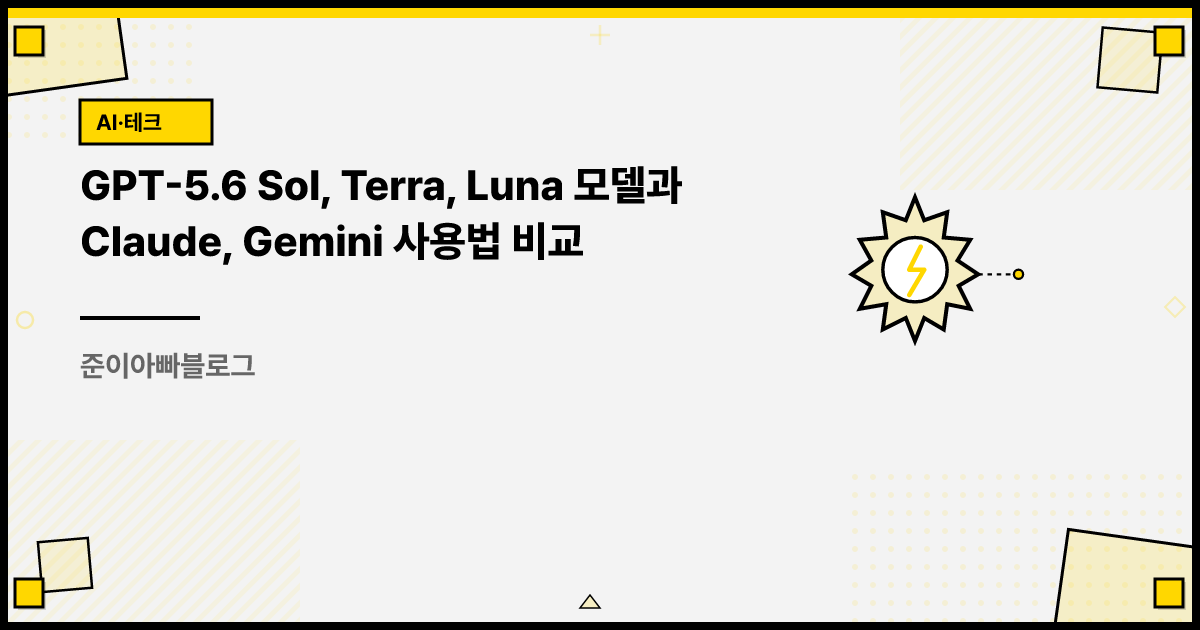
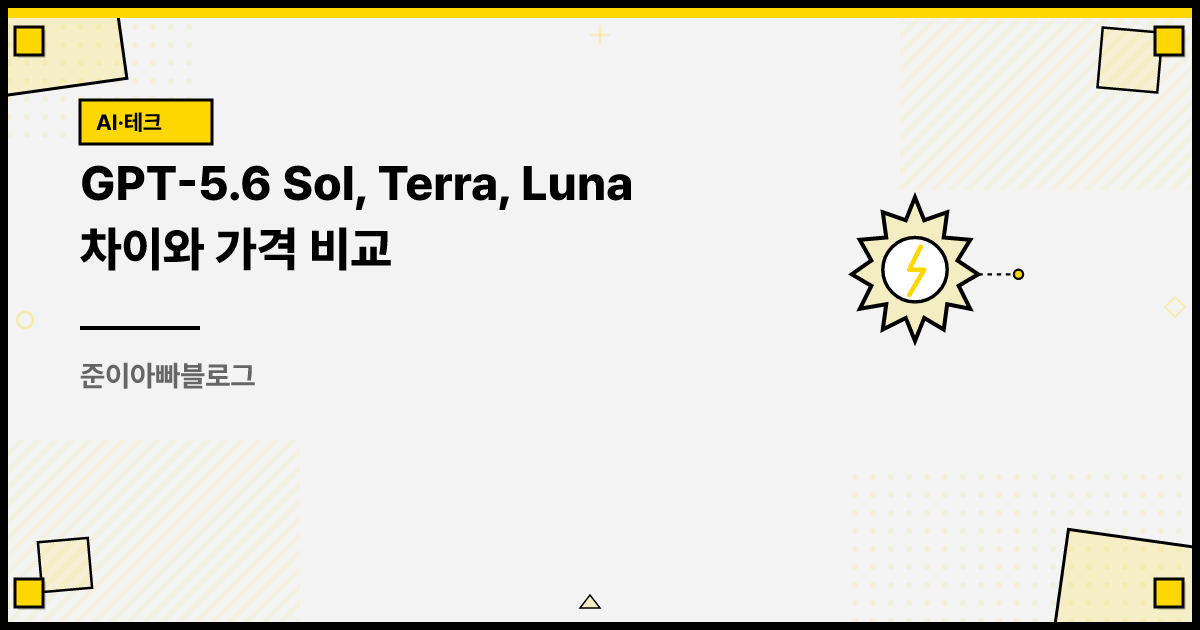
docs(insights): GPT-5.6 Sol 한시 인하 반영과 Sonnet 5 가격 오류 수정
- comparison 글에 "GPT-5.6 가격 변동 이력과 Sol 한시 인하" 섹션 추가
  (변동 이력 표, 캐시 단가, 고속 모드/장기 컨텍스트/배치·플렉스 파생 단가,
   종량제와 구독 포함분의 적용 범위 구분)
- 본문 가격표를 현행가(Sol $4/$20)로 교체하고 정가 병기
- 헤딩 4개를 명사형으로 바꾸고 검색 고유명사 삽입, title에 "차이" 반영
- 팩트 오류 수정: Sonnet 5의 9월 인상은 2026-08-10 철회됨 (두 글 4곳)
- 퀴즈 해설과 3줄 요약의 단가 배수를 인하 후 기준(20배)으로 갱신
- Sources의 OpenAI 가격 페이지를 developers.openai.com으로 교체
- og:image 재생성, 두 글 updatedAt 갱신

Claude-Session: https://claude.ai/code/session_0157HtXYH98cCaQmMD9xzkNM

Changed region(s): [[0.0617, 0.2413, 0.5858, 0.4222], [0.0617, 0.4825, 0.2158, 0.6333]]

diff --git a/content/insights/gpt-5-6-sol-terra-luna-comparison.md b/content/insights/gpt-5-6-sol-terra-luna-comparison.md
@@ -1,25 +1,26 @@
 ---
 slug: gpt-5-6-sol-terra-luna-comparison
-title: 'GPT-5.6 Sol, Terra, Luna 모델과 Claude, Gemini 사용법 비교'
+title: 'GPT-5.6 Sol, Terra, Luna 차이와 가격 비교'
 excerpt: >-
   GPT-5.6은 OpenAI가 2026년 7월 출시한 3단계 모델 제품군으로, 최상위 Sol, 균형형 Terra, 경량 Luna로
-  구성됩니다. 세 모델의 차이와 요금제별 사용 범위, Claude와 Gemini 경쟁 모델과의 가격, 벤치마크 비교를 정리했습니다.
+  구성됩니다. 세 모델의 차이와 두 차례 가격 인하 이력, 요금제별 사용 범위, Claude와 Gemini 경쟁 모델과의 가격과 벤치마크
+  비교를 정리했습니다.
 category: AI_TECH
 tags:
   - AI
   - API
   - 자동화
 publishedAt: '2026-07-31T00:00:00.000Z'
-updatedAt: '2026-08-24T00:00:00.000Z'
+updatedAt: '2026-08-25T00:00:00.000Z'
 highlights:
   - '기본값은 Terra로 잡고, 대량 반복 작업은 Luna로, 복잡한 추론과 에이전트 작업만 Sol로 올리는 방식이 비용 효율적입니다.'
-  - 순수 코드 품질이 중요한 작업이라면 벤치마크 지표를 기준으로 Claude 계열과 교차 비교 후 선택하세요.
-metaTitle: 'GPT-5.6 Sol, Terra, Luna 모델과 Claude, Gemini 사용법 비교 (2026년 7월 기준)'
+  - Sol 인하는 2026년 11월 21일까지의 한시 가격이므로 장기 예산은 정가 기준으로 잡아 두세요.
+metaTitle: 'GPT-5.6 Sol, Terra, Luna 차이와 가격 비교 (2026년 8월 기준)'
 metaDescription: >-
   GPT-5.6은 OpenAI의 3단계 모델 제품군으로 최상위 Sol, 균형형 Terra, 경량 Luna로 나뉩니다. 세 모델의 차이,
-  ChatGPT 요금제별 사용 범위, Claude와 Gemini 대비 가격과 벤치마크를 정리했습니다.
-ogTitle: 'GPT-5.6 Sol, Terra, Luna 모델과 Claude, Gemini 사용법 비교'
-ogDescription: 'GPT-5.6 세 모델의 역할 차이와 요금제별 사용 범위, Claude와 Gemini 경쟁 모델과의 가격, 벤치마크 비교를 정리했습니다.'
+  2026년 8월 Sol 가격 인하 내용, ChatGPT 요금제별 사용 범위, Claude와 Gemini 대비 가격과 벤치마크를 정리했습니다.
+ogTitle: 'GPT-5.6 Sol, Terra, Luna 차이와 가격 비교'
+ogDescription: 'GPT-5.6 세 모델의 차이와 두 차례 가격 인하 이력, Claude와 Gemini 경쟁 모델과의 가격, 벤치마크 비교를 정리했습니다.'
 ogImage: /og/gpt-5-6-sol-terra-luna-comparison.png
 quiz:
   - question: GPT-5.6 세 모델 가운데 대량 텍스트 분류나 반복 자동화처럼 호출 횟수가 많은 작업에 가장 적합한 모델은 무엇일까요?
@@ -30,15 +31,15 @@ quiz:
     correctIndex: 0
     explanation: >-
       Luna는 입력 100만 토큰당 0.20달러로 세 모델 중 가장 저렴하고 응답 속도도 가장 빠릅니다. 분류, 추출, 요약처럼
-      단순하지만 호출 횟수가 많은 작업일수록 Luna의 비용 우위가 커집니다. Sol은 성능이 가장 높지만 단가가 25배라 대량 호출에는
-      비효율적입니다.
+      단순하지만 호출 횟수가 많은 작업일수록 Luna의 비용 우위가 커집니다. Sol은 성능이 가장 높지만 입력 단가가 20배라 대량
+      호출에는 비효율적입니다.
 ---
 
 GPT-5.6은 OpenAI가 2026년 7월 9일 정식 출시한 3단계 AI 모델 제품군입니다. 최고 성능의 Sol(솔), 균형형 Terra(테라), 경량 Luna(루나) 세 모델로 구성됩니다. 태양, 지구, 달이라는 이름 그대로 크기와 역할이 층을 이루는 구조입니다.
 
-출시 3주 만인 7월 30일에는 Luna 가격이 80%, Terra 가격이 20% 인하되면서 세 모델의 위치가 한 번 더 정리되었습니다. 인하 내용은 [GPT-5.6 Luna 가격 인하 글](/insights/gpt-5-6-luna-price-cut)에서 따로 다뤘습니다. 이 글에서는 세 모델의 차이, ChatGPT 요금제별 사용 범위, 그리고 Claude와 Gemini의 경쟁 모델과 견줬을 때의 위치를 정리했습니다.
+출시 이후 가격은 두 번 바뀌었습니다. 7월 30일에 Luna가 80%, Terra가 20% 내려갔고, 8월 21일에는 Sol이 입력 20%, 출력 33% 인하됐습니다. 7월 인하의 배경은 [GPT-5.6 Luna 가격 인하 글](/insights/gpt-5-6-luna-price-cut)에서 따로 다뤘습니다. 이 글에서는 세 모델의 차이와 가격 변동 이력, ChatGPT 요금제별 사용 범위, 그리고 Claude와 Gemini의 경쟁 모델과 견줬을 때의 위치를 정리했습니다.
 
-## GPT-5.6 세 모델은 무엇이 다를까요?
+## GPT-5.6 Sol, Terra, Luna 세 모델의 차이
 
 세 모델은 같은 기반에서 크기와 단가를 달리한 형제 모델입니다. 공통 사양부터 확인하면 다음과 같습니다.
 
@@ -46,20 +47,54 @@ GPT-5.6은 OpenAI가 2026년 7월 9일 정식 출시한 3단계 AI 모델 제품
 - **최대 출력**: 12만 8천 토큰입니다.
 - **지식 기준일**: 2026년 2월 16일까지의 정보를 학습했습니다.
 
-성능과 단가에서 차이가 납니다. 2026년 7월 30일 인하가 반영된 정가 기준입니다.
+성능과 단가에서 차이가 납니다. 2026년 8월 25일 기준으로 실제 청구되는 단가입니다.
 
 | 구분 | Sol | Terra | Luna |
 |------|-----|-------|------|
 | 위치 | 최상위 | 균형형 | 경량 |
-| 입력 (100만 토큰당) | $5.00 | $2.00 | $0.20 |
-| 출력 (100만 토큰당) | $30.00 | $12.00 | $1.20 |
+| 입력 (100만 토큰당) | $4.00 | $2.00 | $0.20 |
+| 출력 (100만 토큰당) | $20.00 | $12.00 | $1.20 |
 | 어울리는 일 | 복잡한 추론, 에이전트 작업, 까다로운 코드 수정 | 문서 요약, 초안 작성, 일반 질의응답 | 대량 분류, 데이터 추출, 단순 변환 |
 
-위 표의 Sol 단가는 그 뒤 한 번 더 내려갔습니다. OpenAI는 2026년 8월 21일부터 11월 21일까지 Sol을 입력 100만 토큰당 $4, 출력 $20으로 한시 인하했고, Terra와 Luna 단가는 그대로 뒀습니다.
+표의 Sol 단가는 기간이 정해진 한시 가격입니다. 정가는 입력 $5, 출력 $30이고, 인하가는 최소 2026년 11월 21일까지 적용됩니다. 자세한 내용은 바로 다음 섹션에 정리했습니다.
 
 OpenAI는 Terra가 이전 세대 GPT-5.5와 비슷한 성능을 절반 가격에 낸다고 설명합니다. 실제로 뒤에서 볼 벤치마크에서도 Terra는 GPT-5.5와 같은 점수대에 있습니다. 그래서 실무 기본값은 Terra로 잡고, 단순 반복 작업은 Luna로 내리고, 어려운 작업만 Sol로 올리는 구조가 자연스럽습니다.
 
-## ChatGPT 요금제에서는 어떤 모델이 열릴까요?
+## GPT-5.6 가격 변동 이력과 Sol 한시 인하
+
+출시 이후 두 달 사이에 단가가 두 번 조정됐습니다. 순서대로 정리하면 다음과 같습니다. 모두 100만 토큰당 미국 달러 기준입니다.
+
+| 시점 | 조정 내용 | Sol (입력/출력) | Terra (입력/출력) | Luna (입력/출력) |
+|------|----------|----------------|------------------|-----------------|
+| 2026년 7월 9일 출시 | 최초 가격 | $5 / $30 | $2.50 / $15 | $1 / $6 |
+| 2026년 7월 30일 | Luna 80%, Terra 20% 인하 | $5 / $30 | $2 / $12 | $0.20 / $1.20 |
+| 2026년 8월 21일 | Sol 입력 20%, 출력 33% 인하 | $4 / $20 | $2 / $12 | $0.20 / $1.20 |
+
+> GPT-5.6 Sol의 API 가격은 2026년 8월 21일부터 입력 100만 토큰당 4달러, 출력 100만 토큰당 20달러입니다. 최소 2026년 11월 21일까지 적용되는 한시 가격이며, 같은 날 Terra와 Luna 단가는 바뀌지 않았습니다.
+
+캐시 관련 단가에도 같은 비율의 인하가 적용됐습니다. 시스템 프롬프트가 길어 캐시 적중률이 높은 서비스라면 이 부분이 실제 청구액에 더 크게 반영됩니다.
+
+| 항목 | 인하 전 | 인하 후 |
+|------|--------|--------|
+| 입력 | $5.00 | $4.00 |
+| 출력 | $30.00 | $20.00 |
+| 캐시 적중 입력 | $0.50 | $0.40 |
+| 캐시 쓰기 | $6.25 | $5.00 |
+
+요청을 보내는 방식에 따라 붙는 파생 단가에도 인하가 반영됐습니다. 모두 인하 후 Sol 기준입니다.
+
+- **고속 모드(Fast mode)**: 표준 단가의 2배입니다. 입력 $8, 출력 $40이 됩니다. 응답 속도가 병목인 기능에 쓰는 옵션입니다.
+- **장기 컨텍스트**: 입력이 27만 2천 토큰을 넘으면 별도 단가가 적용됩니다. 입력 $8, 출력 $30입니다.
+- **배치, 플렉스 처리**: 표준 단가의 절반입니다. 입력 $2, 출력 $10으로 내려갑니다. 응답이 몇 시간 늦어도 되는 대량 작업이라면 가장 저렴한 선택입니다.
+
+인하가 적용되는 범위도 확인해 둘 필요가 있습니다. 쓴 만큼 청구되는 사용량에는 적용되고, 구독료에 이미 포함된 사용량에는 해당하지 않습니다.
+
+- **적용됩니다**: 종량제 API, ChatGPT Work와 Codex에서 따로 구매하는 크레딧, Business와 Edu, Enterprise 워크스페이스의 유연 요금제
+- **적용되지 않습니다**: Plus, Pro, Business 구독에 기본으로 포함된 사용량. 이 부분은 인하 전과 같습니다.
+
+정리하면 API로 직접 호출하거나 크레딧을 사서 쓰는 쪽은 청구액이 내려가고, 월 구독료만 내고 포함된 만큼만 쓰는 쪽은 달라지는 것이 없습니다.
+
+## ChatGPT 요금제별 GPT-5.6 사용 범위
 
 API가 아니라 ChatGPT 앱에서 쓰는 경우, 요금제에 따라 접근 범위가 달라집니다. 한 가지 특이한 점은 채팅 화면에 Sol, Terra, Luna를 직접 고르는 메뉴가 없다는 것입니다. 모델 선택기에서 추론 수준을 고르면 그에 맞는 모델이 배정되는 방식으로 알려져 있습니다.
 
@@ -69,7 +104,7 @@ API가 아니라 ChatGPT 앱에서 쓰는 경우, 요금제에 따라 접근 범
 
 요금제별 세부 기준은 자주 바뀌므로, 결제 전에는 OpenAI 공식 도움말에서 현재 기준을 확인하는 편이 안전합니다.
 
-## Claude, Gemini와 비교하면 어느 쪽이 유리할까요?
+## GPT-5.6과 Claude, Gemini 성능 및 가격 비교
 
 모델 비교에는 독립 벤치마크 기관 Artificial Analysis의 집계를 기준으로 사용했습니다. 아래 차트는 여러 시험을 종합한 지능 지수(Intelligence Index)와, 코딩 도구에 물려 실제 개발 작업을 시킨 코딩 에이전트 지수(Coding Agent Index)입니다.
 
@@ -83,21 +118,21 @@ API가 아니라 ChatGPT 앱에서 쓰는 경우, 요금제에 따라 접근 범
 
 다만 순수 코드 생성 품질을 보는 SWE-bench Pro에서는 Claude Fable 5가 80%로 Sol의 64.6%를 크게 앞선다는 집계도 있습니다. 저장소 수준의 코드 품질이 중요한 작업과, 터미널에서 여러 단계를 수행하는 에이전트형 작업의 승자가 서로 다른 셈입니다.
 
-가격 축에서 각 체급의 경쟁 모델과 나란히 놓으면 다음과 같습니다. 2026년 7월 기준 입력/출력 가격입니다.
+가격 축에서 각 체급의 경쟁 모델과 나란히 놓으면 다음과 같습니다. 2026년 8월 25일 기준 입력/출력 가격입니다.
 
 | 체급 | GPT-5.6 | Claude | Gemini |
 |------|---------|--------|--------|
-| 최상위 | Sol $5 / $30 | Opus 5 $5 / $25, Fable 5 $10 / $50 | Gemini 3.1 Pro $2 / $12 |
-| 중간 | Terra $2 / $12 | Sonnet 5 $2 / $10 (9월부터 $3 / $15) | Gemini 3.1 Pro $2 / $12 |
+| 최상위 | Sol $4 / $20 (정가 $5 / $30) | Opus 5 $5 / $25, Fable 5 $10 / $50 | Gemini 3.1 Pro $2 / $12 |
+| 중간 | Terra $2 / $12 | Sonnet 5 $2 / $10 | Gemini 3.1 Pro $2 / $12 |
 | 경량 | Luna $0.20 / $1.20 | Haiku 4.5 $1 / $5 | Gemini 3.6 Flash $1.50 / $7.50 |
 
 체급별로 구도가 다릅니다.
 
-- **최상위 구간**: Sol은 Opus 5와 입력 가격이 같고 출력은 조금 더 비쌉니다. 이 구간은 가격보다 작업 유형이 선택 기준입니다. 지표상 에이전트형 작업은 Sol, 순수 코드 품질은 Claude 계열이 앞서는 구도입니다.
-- **중간 구간**: Terra와 Sonnet 5, Gemini 3.1 Pro가 모두 입력 2달러 안팎에 몰려 있어 가장 치열한 구간입니다. Sonnet 5의 프로모션 가격이 8월 말 종료되면 Terra의 가격 우위가 커집니다.
+- **최상위 구간**: 한시 인하가 적용되는 동안에는 Sol이 입력과 출력 모두 Opus 5보다 저렴합니다. 정가 기준으로는 입력이 같고 출력이 더 비쌌으니, 이번 인하로 두 모델의 가격 순서가 뒤집혔습니다. 다만 11월에 정가로 돌아가면 원래대로 복귀합니다. 그래서 이 구간의 선택 기준은 가격보다 작업 유형에 두는 편이 안전합니다. 지표상 에이전트형 작업은 Sol, 순수 코드 품질은 Claude 계열이 앞섭니다.
+- **중간 구간**: Terra와 Sonnet 5, Gemini 3.1 Pro가 모두 입력 2달러 안팎에 몰려 있어 가장 치열한 구간입니다. Sonnet 5는 9월부터 $3 / $15로 오를 예정이었으나, Anthropic이 2026년 8월 10일 인상을 철회하고 $2 / $10을 표준 가격으로 확정했습니다([관련 글](/insights/claude-sonnet-5-price-permanent)). 이 구간의 가격 구도는 당분간 지금 상태로 유지됩니다.
 - **경량 구간**: Luna가 Haiku 4.5의 5분의 1, Gemini 3.6 Flash의 7분의 1 수준 입력 가격으로 가장 저렴합니다. 다만 Haiku 4.5는 컨텍스트 윈도가 20만 토큰으로 작고, Gemini 3.6 Flash는 이미지, 영상, 음성 입력을 함께 처리하는 멀티모달이 강점이라 단순 가격만으로 비교하기 어려운 면이 있습니다.
 
-## 어떤 기준으로 선택하면 될까요?
+## 작업 유형별 GPT-5.6 모델 선택 기준
 
 기준을 작업 유형으로 잡으면 선택이 단순해집니다. 마케팅 팀에서 AI 자동화를 운영하는 상황을 예로 들어 정리하면 다음과 같습니다.
 
@@ -107,17 +142,17 @@ API가 아니라 ChatGPT 앱에서 쓰는 경우, 요금제에 따라 접근 범
 - **저장소 수준의 코드 작성과 리팩터링**: 벤치마크 지표를 참고해 Claude 계열과 교차 비교 후 선택하는 편이 안전합니다.
 - **영상, 음성, 이미지가 섞인 입력 처리**: Gemini 계열이 강점을 가진 영역입니다.
 
-한 가지 유의할 점이 있습니다. 이 글의 가격과 벤치마크는 2026년 7월 기준이고, 이번 달에만 Gemini 3.6 Flash 출시(7월 21일)와 GPT-5.6 가격 인하(7월 30일)가 연달아 있었습니다. 모델 선택을 확정하기 전에는 각 사의 공식 가격 페이지에서 최신 숫자를 확인하는 과정이 필요합니다.
+한 가지 유의할 점이 있습니다. 이 글의 가격은 2026년 8월 25일 기준이고, 벤치마크는 7월 집계입니다. 두 달 사이에 Gemini 3.6 Flash 출시(7월 21일), GPT-5.6 Luna와 Terra 인하(7월 30일), Sonnet 5 인상 철회(8월 10일), Sol 한시 인하(8월 21일)가 이어졌습니다. 모델 선택을 확정하기 전에는 각 사의 공식 가격 페이지에서 최신 숫자를 확인하는 과정이 필요합니다.
 
 **3줄 요약:**
-- GPT-5.6은 최상위 Sol, 균형형 Terra, 경량 Luna의 3단계 제품군이며, 세 모델 모두 100만 토큰 컨텍스트를 제공하고 가격은 25배까지 차이 납니다.
-- Artificial Analysis 집계에서 지능 지수는 Claude Fable 5(60)에 이어 Sol(59)이 2위이고, 코딩 에이전트 지수는 Codex와 Sol 조합(80)이 1위입니다.
+- GPT-5.6은 최상위 Sol, 균형형 Terra, 경량 Luna의 3단계 제품군이며, 세 모델 모두 100만 토큰 컨텍스트를 제공하고 입력 단가는 20배까지 차이 납니다.
+- 2026년 8월 21일부터 Sol이 입력 $4, 출력 $20으로 내려갔습니다. 최소 11월 21일까지의 한시 가격이고, 종량제 API와 구매 크레딧에는 적용되지만 구독에 포함된 사용량에는 적용되지 않습니다.
 - 실무에서는 Terra를 기본값으로 두고 대량 작업은 Luna, 복잡한 추론은 Sol로 나누는 방식이 비용 효율적이며, 순수 코드 품질은 Claude 계열과 교차 비교가 필요합니다.
 
 ## Sources
 
 - [OpenAI, GPT-5.6 소개 페이지](https://openai.com/index/gpt-5-6/)
-- [OpenAI API 가격 페이지](https://platform.openai.com/docs/pricing)
+- [OpenAI API 가격 페이지](https://developers.openai.com/api/docs/pricing)
 - [OpenAI 도움말, GPT-5.6 in ChatGPT](https://help.openai.com/en/articles/20001325-a-preview-of-gpt-56-sol-terra-and-luna)
 - [Artificial Analysis, GPT-5.6 벤치마크 분석](https://artificialanalysis.ai/articles/gpt-5-6-has-landed)
 - [Anthropic, Claude 모델 가격](https://claude.com/pricing)
